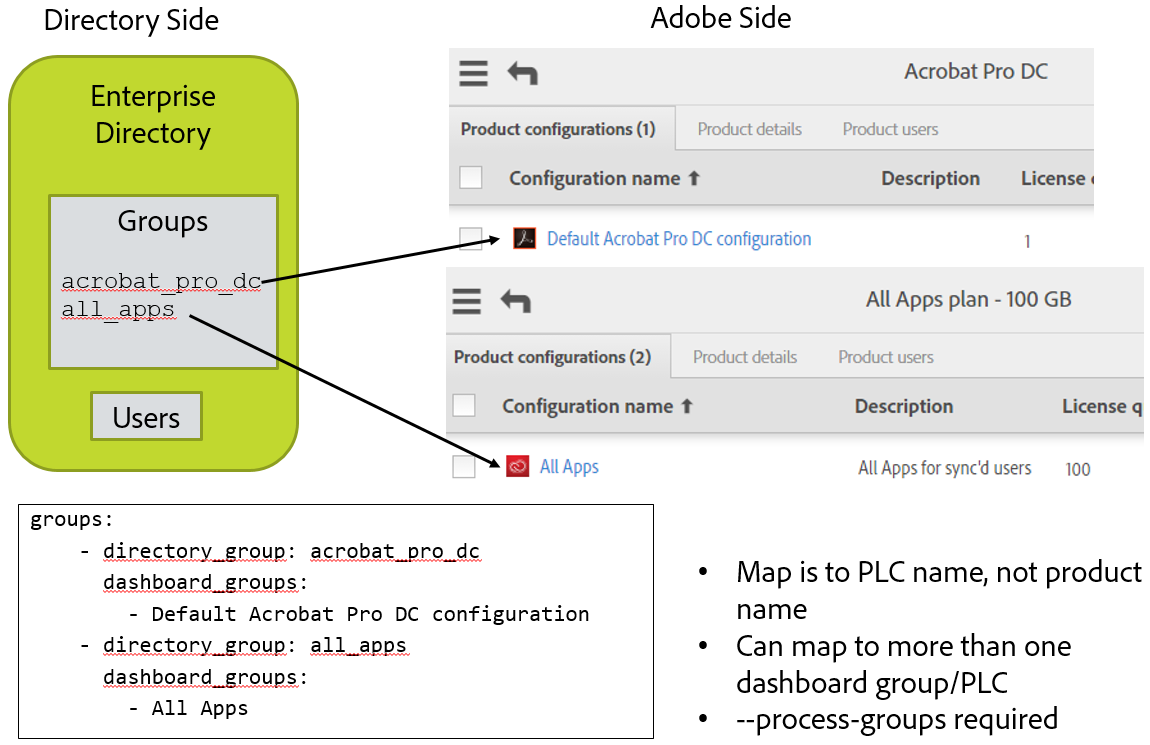
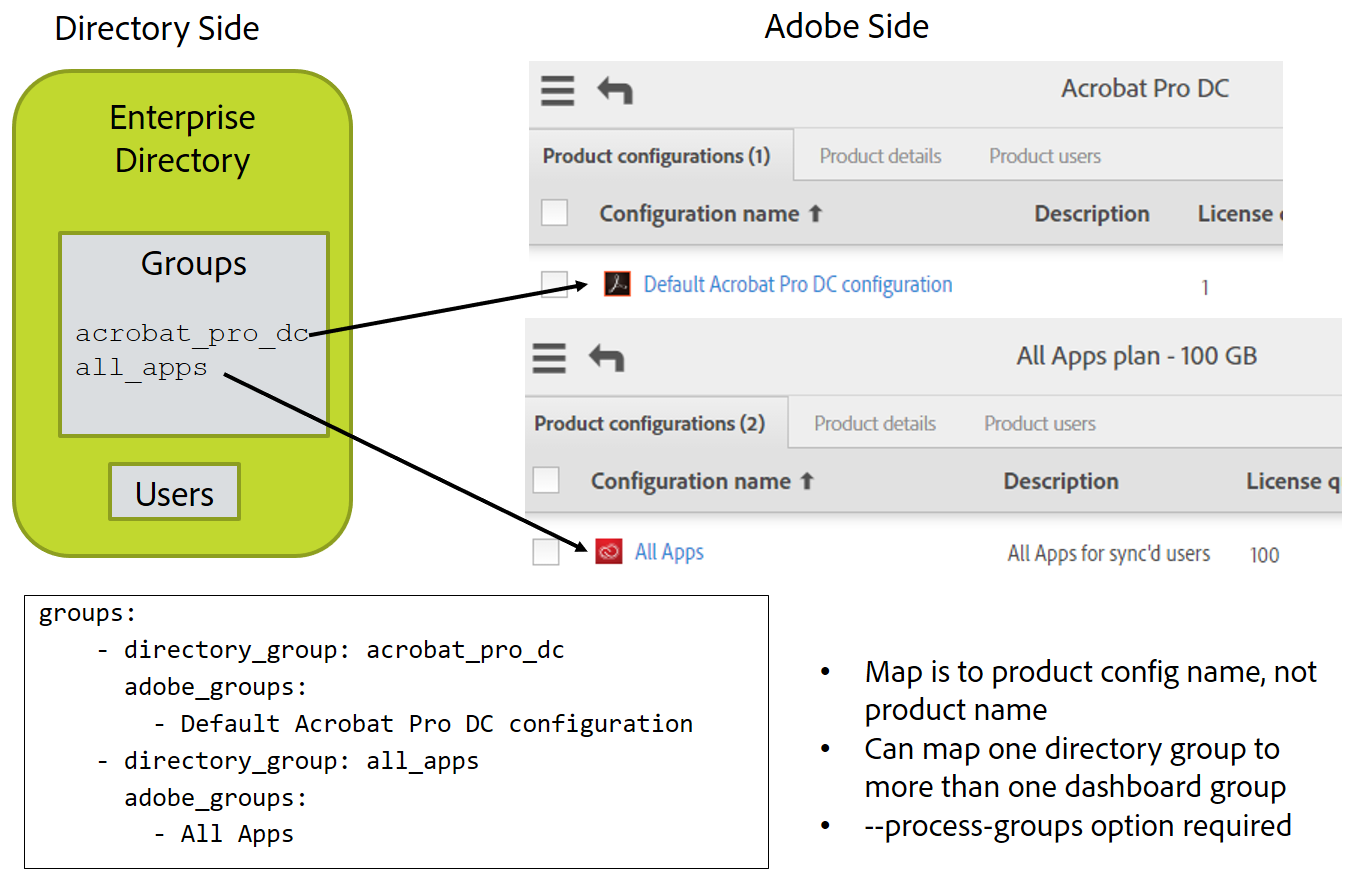
Next round of edits.  Update some slide shots, --exclude-adobe-groups, --adobe-only-user-action exclude, --adobe-only-user-action remove-adobe-groups, remove --source-filter, add doc of exclude feature, plus more.

diff --git a/docs/user-manual/index.md b/docs/user-manual/index.md
@@ -134,7 +134,7 @@ complete, you will be assigned an **API key**, a **Technical
 account ID**, an **Organization ID**, and a **client secret**
 that the tool will use, along with your cerficate information, to
 communicate securely with the Admin Console. When you install the
-User Sync tool, you must provide these as initial configuration
+User Sync tool, you must provide these as configuration
 values that the tool requires to access your organization's user
 information store in Adobe.
 
@@ -142,10 +142,10 @@ information store in Adobe.
 
 If you plan to use the User Sync tool to update user access to
 Adobe products, you must create groups in your own enterprise
-LDAP directory that correspond to the user groups and product
+directory that correspond to the user groups and product
 configurations that you have defined in the
 [Adobe Admin Console](https://www.adobe.io/console/). Membership
-in a product configuration grants access to particular set of
+in a product configuration grants access to a particular set of
 Adobe products. You can grant or revoke access to users or to
 defined user groups by adding or removing them from a product
 configuration.
@@ -172,7 +172,7 @@ Management system. For more information, see the help page for
 
 If you do not yet have any product configurations, you can use the
 Console to create them. You must have some, and they must have
-corresponding groups in enterprise LDAP directory, in order to
+corresponding groups in enterprise directory, in order to
 configure User Sync to update your user entitlement information.
 
 The names of product configurations generally identify
@@ -229,6 +229,9 @@ The User Sync Tool is available from the
 [User Sync repository on GitHub](https://github.com/adobe-apiplatform/user-sync.py). To
 install the tool:
 
+1. Create a folder on your server where you will install the 
+User Sync tool and place the configuration files.
+
 1. Click the **Releases** link to locate the latest release,
 which contains the release notes, this documentation, sample
 configuration files, and all the built versions (as well as
@@ -241,7 +244,7 @@ Source Code package that corresponds to the release, or use the
 latest source off the master branch.)
 
 3. Locate the Python executable file (`user-sync` or
-`user-sync.pex` for Windows) and place it in your User Sync root
+`user-sync.pex` for Windows) and place it in your User Sync
 folder.
 
 4. Download the `examples.tar.gz` archive of sample configuration
@@ -277,9 +280,9 @@ the cache location, which prevents the path from exceeding the
 #### Security Considerations
 
 Because the User Sync application accesses sensitive information
-on both the customer and Adobe sides, its use involves a number
+on both the enterprise and Adobe sides, its use involves a number
 of different files that contain sensitive information. Great care
-should be take to keep these files save from unauthorized access.
+should be take to keep these files safe from unauthorized access.
 
 ##### Configuration files
 
@@ -565,7 +568,7 @@ is invoked with one of the options
 
 - `--adobe-only-user-action delete`
 - `--adobe-only-user-action remove`
-- `--adobe-only-user-action remove-entitlements`
+- `--adobe-only-user-action remove-adobe-groups`
 
 If your organization has a large number of users in the
 enterprise directory and the number of users read during a sync
@@ -782,11 +785,10 @@ specific behavior in various situations.
 | `-t`<br />`--test-mode` | Run API action calls in test mode (does not execute changes). Logs what would have been executed.  |
 | `-c` _filename_<br />`--config-filename` _filename_ | The complete path to the main configuration file, absolute or relative to the working folder. Default filename is "user-sync-config.yml" |
 | `--users` `all`<br />`--users` `file` _input_path_<br />`--users` `group` _grp1,grp2_<br />`--users` `mapped` | Specify the users to be selected for sync. The default is `all` meaning all users found in the directory. Specifying `file` means to take input user specifications from the CSV file named by the argument. Specifying `group` interprets the argument as a comma-separated list of groups in the enterprise directory, and only users in those groups are selected. Specifying `mapped` is the same as specifying `group` with all groups listed in the group mapping in the configuration file. This is a very common case where just the users in mapped groups are to be synced.|
-| `--user-filter` _regex\_pattern_ | Limit the set of users that are examined for syncing to those matching a pattern specified with a regular expression. See the [Python regular expression documentation](https://docs.python.org/2/library/re.html) for information on constructing regular expressions in Python. |
-| `--source-filter` _connector_:_file_ | Names a file containing LDAP filter settings. The filter is an LDAP query string that is passed directly to the LDAP server.  See the [sample above](#connector_ldap.yml) and others in the archive of examples. |
+| `--user-filter` _regex\_pattern_ | Limit the set of users that are examined for syncing to those matching a pattern specified with a regular expression. See the [Python regular expression documentation](https://docs.python.org/2/library/re.html) for information on constructing regular expressions in Python. The user name must completely match the regular expression.|
 | `--update-user-info` | When supplied, synchronizes user information. If the information differs between the customer side and the Adobe side, the Adobe side is updated to match. This includes the firstname and lastname fields. |
 | `--process-groups` | When supplied, synchronizes group membership information. If the membership in mapped groups differs between the customer side and the Adobe side, the group membership is updated on the Adobe side to match. |
-| `--adobe-only-user-action preserve`<br />`--adobe-only-user-action remove-entitlements`<br />`--adobe-only-user-action  remove`<br />`--adobe-only-user-action delete`<br /><br/>`--adobe-only-user-action  write-file  <filename>` | When supplied, if user accounts are found on the Adobe side that are not in the directory, take the indicated action.  <br/><br/>`preserve`: no action concerning account deletion is taken. This is the default.  There may still be group membership changes if the `--process-groups` option was specified.<br/><br/>`remove-entitlements`: The account is removed from user groups and product configurations, freeing any licenses it held, but is left as an active account in the organization.<br><br/>`remove`: In addition to remove-entitlements, the account is also removed from the organization, but is left as an existing account.<br/><br/>`delete`: In addition to the action for remove, the account is deleted if owned by the organization.<br/><br/>`write-file`: the list of user account present on the Adobe side but not in the directory is written to the file indicated.  No other account action is taken.  You can then pass this file to the `--adobe-only-user-list` argument in a subsequent run.<br/><br>Only permitted actions will be applied.  Accounts of type adobeID are owned by the user so the delete action will do the equivalent of remove.  The same is true of Adobe accounts owned by other organizations. |
+| `--adobe-only-user-action preserve`<br />`--adobe-only-user-action remove-adobe-groups`<br />`--adobe-only-user-action  remove`<br />`--adobe-only-user-action delete`<br /><br/>`--adobe-only-user-action  write-file  <filename>`<br/><br/>`--adobe-only-user-action  exclude` | When supplied, if user accounts are found on the Adobe side that are not in the directory, take the indicated action.  <br/><br/>`preserve`: no action concerning account deletion is taken. This is the default.  There may still be group membership changes if the `--process-groups` option was specified.<br/><br/>`remove-adobe-groups`: The account is removed from user groups and product configurations, freeing any licenses it held, but is left as an active account in the organization.<br><br/>`remove`: In addition to remove-adobe-groups, the account is also removed from the organization, but is left as an existing account.<br/><br/>`delete`: In addition to the action for remove, the account is deleted if owned by the organization.<br/><br/>`write-file`: the list of user account present on the Adobe side but not in the directory is written to the file indicated.  No other account action is taken.  You can then pass this file to the `--adobe-only-user-list` argument in a subsequent run.<br/><br/>`exclude`: No update of any kind is applied to users found only on the Adobe side.  This is used when doing updates of specific users via a file (--users file f) where only users needing explicit updates are listed in the file and all other users should be left alone.<br/><br>Only permitted actions will be applied.  Accounts of type adobeID are owned by the user so the delete action will do the equivalent of remove.  The same is true of Adobe accounts owned by other organizations. |
 | `adobe-only-user-list` _input\_path_ | Specifies a file from which a list of users will be read.  This list is used as the definitive list of "Adobe only" user accounts to be acted upon.  One of the `--adobe-only-user-action` directives must also be specified and its action will be applied to user accounts in the list.  The `--users` option is disallowed if this option is present: only account removal actions can be processed.  |
 {: .bordertablestyle }
 
@@ -1079,20 +1081,24 @@ groups defined in other organizations.
 and mappings, you must configure the tool to be able to recognize
 those customizations.
 - When you want to use username (rather than email) based logins.
+- When you want to manage some user accounts manually through the Adobe Admin Console in addition to using User Sync
 
 ### Managing Users with Adobe IDs
 
-There is a configuration option `managed_identity_types` which
-can be set so as to manage Adobe ID users (and also to exclude
-other types).  You will probably want to set up a separate sync
+There is a configuration option `exclude_identity_types` (in 
+the adobe_users section of the main config file) which
+is set by default to ignore Adobe ID users.  If you want User Sync to 
+manage some Adobe Id type users, you must turn this option off in the 
+config file.
+
+You will probably want to set up a separate sync
 job specifically for those users, possibly using CSV inputs
-rather than taking inputs from your enterprise directory. Be sure
+rather than taking inputs from your enterprise directory. If you do this, be sure
 to configure this sync job to ignore Enterprise ID and Federated
 ID users, or those users are likely to be removed from the
 directory!
 
-Removal of Adobe ID users via User Sync is not generally a safe
-practice:
+Removal of Adobe ID users via User Sync may not have the effect you desire:
 
 * If you specify that adobeID users should be
 removed from your organization, you will have to re-invite them
@@ -1106,6 +1112,11 @@ them and manage their group memberships, but never to remove
 them.  By managing their group memberships you can disable their
 entitlements without the need for a new invitation if you later
 want to turn them back on.
+
+Remember that Adobe Id accounts are owned by the end user and 
+cannot be deleted.  If you apply a delete action, User Sync will 
+automatically substitute the remove action for the delete action.
+
 
 ### Accessing Groups in Other Organizations
 
@@ -1143,35 +1154,23 @@ able to identify groups as belonging to an external organization.
 To configure for access to groups in other organizations, you
 must:
 
-- Include additional connection configuration files in your User
-Sync root folder.
-- Tell the tool how to access these files.
-- Identify groups that are defined in an external organization.
+- Include additional connection configuration files.
+- Tell User Sync how to access these files.
+- Identify the groups that are defined in another organization.
 
 ##### 1. Include additional configuration files
 
 For each additional organization to which you require access, you
 must add a configuration file that provides the access
 credentials for that organization. The file has the
-same format as the adobe-users-config.yml file, and must be named
-according to the following convention:
+same format as the adobe-users-config.yml file.  Each additional organization will be referred to by a short nickname (that you define).  You can name the configuration file that has the access credentials for that organization however you like.  
 
-`dashboard-`_OrgName_`-config.yml`
+For example, suppose the additional organization is named "department 37".  The config file for it might be named: 
 
-For the _OrgName_ element, use a short identifier that you choose
-to represent the organization.
+`department37-config.yml`
 
-##### 2. Configure the tool to access the additional files
+##### 2. Configure User Sync to access the additional files
 
-Your main configuration file must define the filename format of
-these additional configuration file names.
-
-```YAML
-accessor_config_filename_format: "dashboard-{organization_name}-config.yml"
-```
-
-In this specifier, `{organization_name}` is a literal value that
-indicates a placeholder in the file names.
 
 The adobe-users section of the main configuration file must
 include entries that reference these files, and
@@ -1180,15 +1179,17 @@ example:
 
 ```YAML
 adobe-users:
-  config:
-    - adobe-users-config.yml
-    org1: dashboard-org1-config.yml
-    org2: dashboard-org2-config.yml
+  connectors:
+    umapi:
+      - adobe-users-config.yml
+      - org1: org1-config.yml
+      - org2: org2-config.yml
+      - d37: department37-config.yml  # d37 is short name for example above
 ```
 
-These referenced configuration files must exist in your
-configuration folder, and contain access credentials for the
-external organization.  Note that, like your own connection
+If unqualified file names are used, the configuration files must be in the same folder as the main configuration file that references them.
+
+Note that, like your own connection
 configuration file, they contain sensitive information that must
 be protected.
 
@@ -1451,6 +1452,41 @@ The values given for these configuration items can be a mix of string characters
 For domains that use username-based login, the `user_username_format` configuration item should not produce an email address; the "@" character is not allowed in usernames used in username-based login.
 
 If you are using username-based login, you must still provide a unique email address for every user, and that email address must be in a domain that the organization has claimed and owns. User Sync will not add a user to the Adobe organization without an email address.
+
+### Protecting Specific Accounts from User Sync Deletion
+
+If you drive account creation and removal through User Sync, and want to manually create a few accounts, you may need this feature to keep User Sync from deleting the manually created accounts.
+
+In the adobe_users section of the main configuration file you can include
+the following entries:
+
+```YAML
+adobe_users:
+  exclude_adobe_groups: 
+      - special_users       # Adobe accounts in the named group will not be removed or changed by user sync
+  exclude_users:
+      - ".*@example.com"    # users whose name matches the pattern will be preserved by user sync 
+      - another@example.com # can have more than one pattern
+  exclude_identity_types:
+      - adobeID             # causes user sync to not remove accounts that are AdobeIds
+      - enterpriseID
+      - federatedID         # you wouldn’t have all of these since that would exclude everyone  
+```
+
+These are optional configuration items.  The identify individual or groups
+of accounts and the identified accounts are protected from deletion by 
+User Sync.  These accounts may still be added to or removed from user
+groups or Product Configurations based on the group map entries and
+the `--process-groups` command line option.  
+
+If you want to prevent User Sync from removing these accounts from groups, only place them in groups not under control of User Sync, that is, in groups 
+that are not named in the group map in the config file.
+
+- `exclude_adobe_groups`: The values of this configuration item is a list of strings that name Adobe user groups or PCs.  Any users in any of these groups are preserved and never deleted as Adobe-only users.
+- `exclude_users`: The values of this configuration item is a list of strings that are patterns that can match Adobe user names.  Any matching users are preserved and never deleted as Adobe-only users.
+- `exclude_identity_types`:  The values of this configuration item is a list of strings that can be "adobeID", "enterpriseID", and "federatedID".  This causes any account that isof the listed type(s) to be preserved and never deleted as Adobe-only users.
+
+
 
 ---
 

diff --git a/docs/success-guide/command_line_options.md b/docs/success-guide/command_line_options.md
@@ -42,7 +42,7 @@ Note that only the users returned by the directory query and filter are consider
 | Command line option       ...........| Use when           |
 | ------------- |:-------------| 
 |   None                        |  No action desired on nonexistent users |
-|   `--adobe-only-user-action remove-entitlements` |    Adobe account to remain but licenses and group <br>memberships are removed.  |
+|   `--adobe-only-user-action remove-adobe-groups` |    Adobe account to remain but licenses and group <br>memberships are removed.  |
 |   `--adobe-only-user-action remove`  |    Adobe account to remain but licenses, group memberships, and membership in this org to be removed   |
 |   `--adobe-only-user-action delete`  |    Adobe account to be deleted: remove from PLCs and user groups and <br>from the org; account deleted and all storage and settings freed. |
 |   `--adobe-only-user-action write-file f.csv`    |  No action to be taken on the account.  User name written to file for later action. |

diff --git a/docs/success-guide/decide_deletion_policy.md b/docs/success-guide/decide_deletion_policy.md
@@ -16,7 +16,7 @@ Choices available for handling Adobe account deletion via User Sync:
 
   - Generate list of accounts to be deleted, but no action is taken now.  The list can be edited and later used to drive account deletion through User Sync.
 
-  - Recover all licenses given by your org to the account, but leave the account active. (remove-entitlements)
+  - Recover all licenses given by your org to the account, but leave the account active. (remove-adobe-groups)
 
   - Recover all licenses and remove from your org, but leave account in existence.  (remove)
 
